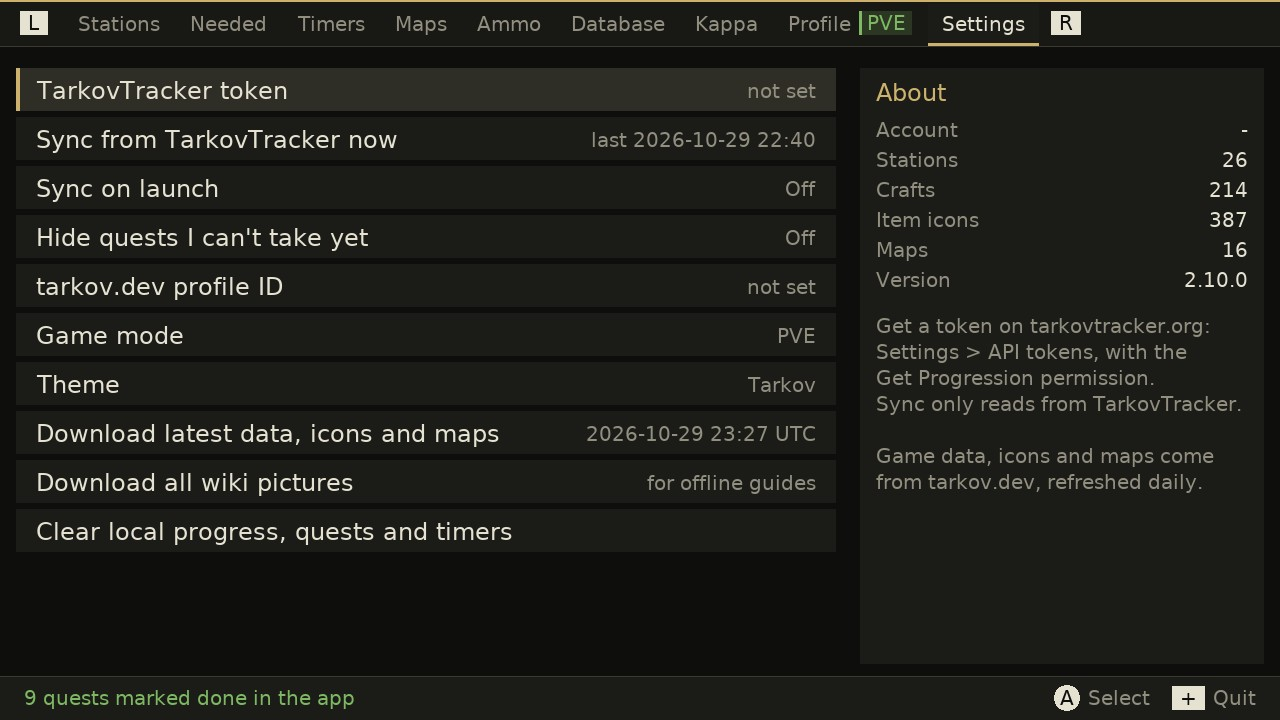
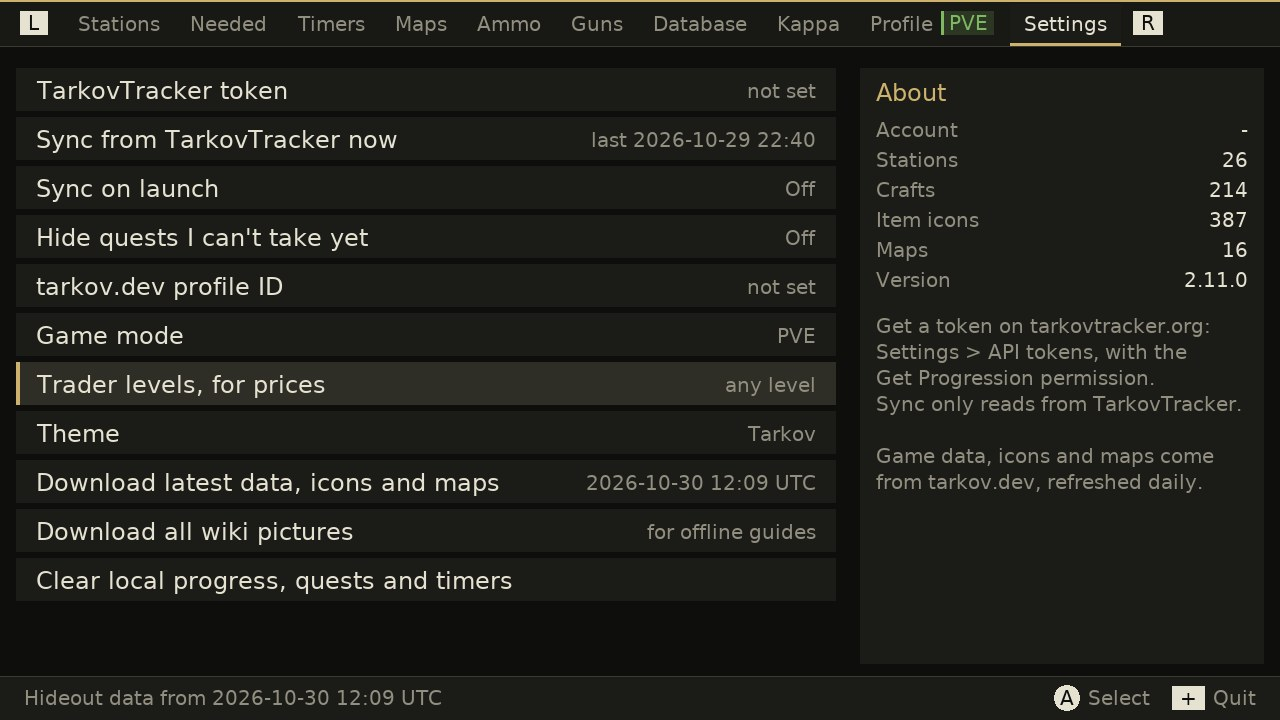
README: Settings screenshot with trader levels
Claude-Session: https://claude.ai/code/session_01GNe8SWobboAS4qPwUUkAPH

diff --git a/README.md b/README.md
@@ -178,6 +178,8 @@ While you pick, the stats panel on the left previews the highlighted mod against
 
 Prices are the lowest flea offer when the data was built (it refreshes daily), or the cheapest trader offer if that's lower. Settings > *Trader levels, for prices* sets your loyalty level with each trader, so the builder only quotes offers you can buy. Offers locked behind a quest count once you've done it (after a TarkovTracker sync).
 
+<img src="docs/screenshots/trader-levels.jpg" alt="Trader levels" width="50%">
+
 Stats use the game's formulas on tarkov.dev's numbers: ergonomics and recoil match the game's default build for every weapon. Your skills and the ammo you load aren't counted.
 
 ## Quests
